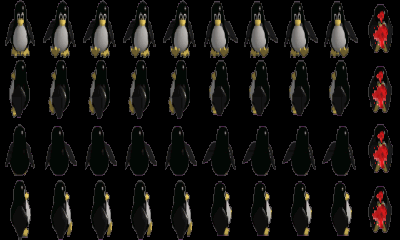
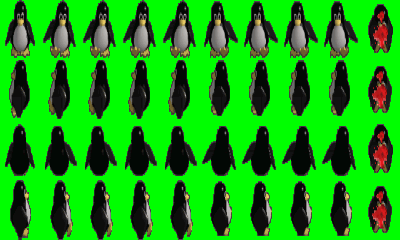
changed penguin's colorkey to green. now df_andi looks correct in 15 and 8 bit (too much of the penguin was keyed before when runnig at lower bit depths)

diff --git a/examples/df_andi.c b/examples/df_andi.c
@@ -462,6 +462,9 @@ void init_resources( int argc, char *argv[] )
      DFBCHECK(provider->RenderTo( provider, tuximage ));
      provider->Release( provider );
 
+     /* set the colorkey to green */
+     tuximage->SetSrcColorKey( tuximage, 0x00, 0xFF, 0x00 );
+     
      /* load the background image */
      DFBCHECK(dfb->CreateImageProvider( dfb, DATADIR"/examples/wood_andi.jpg",
                                         &provider ));
